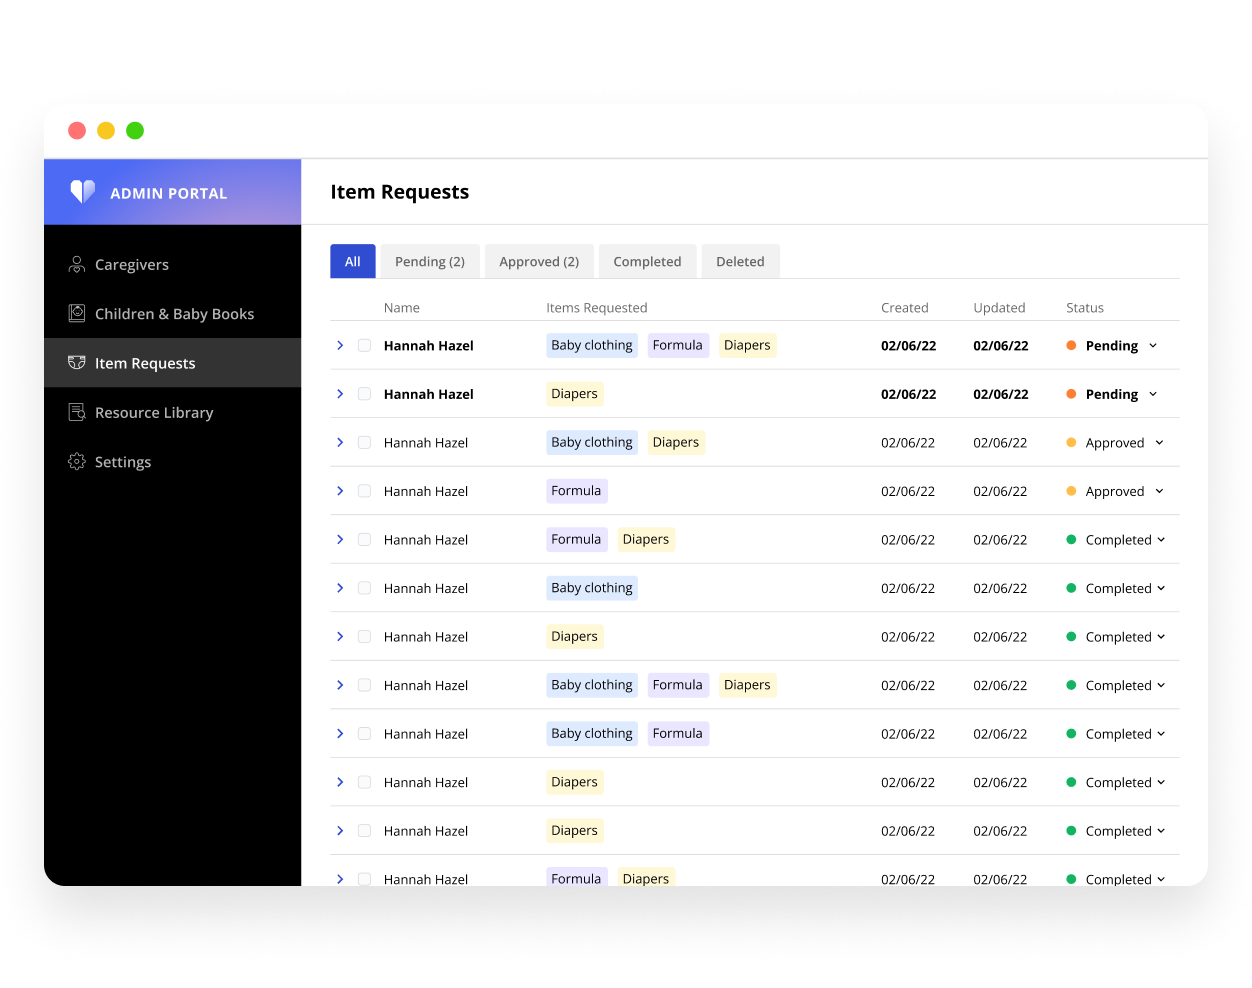
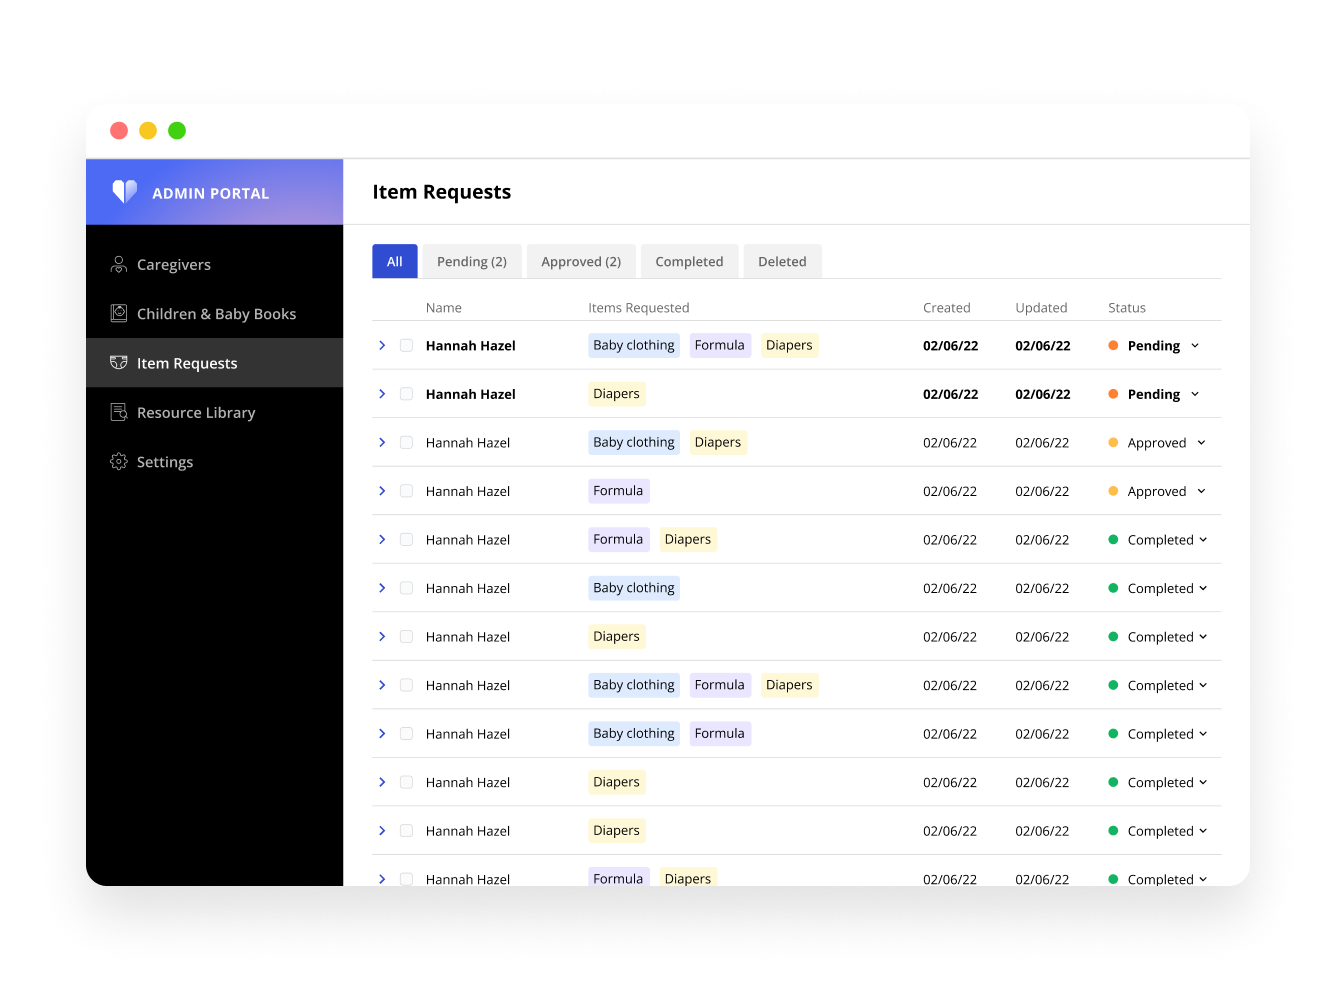
Index changes - not completed

diff --git a/index.html b/index.html
@@ -44,21 +44,18 @@
 
 <div id="index">
   <div class="content">
-
-  <!-- <img src="media/index/doodle.svg" id="doodle" alt="Icon"> -->
-
+    
   <div id="top-space"></div>
 
-  <div id="top-area" >
-
+  <div id="top-area">
     <div id="intro">
       <div class="move-down-wrapper"><h1>Hello, I'm Joyce –</h1></div>
       <div class="move-down-wrapper"><h2>Designer, strategist, & storyteller.</h2></div>
       <div class="xxs-space"></div>
       <div class="move-down-wrapper">
         <div class="p-container">
-          <p><span class="">UX Designer @</span> Expedia Group.</p>
-          <p><span class="">Previously designing @</span> Roblox, U.S. Bank, and Lacework.</p>
+          <p>I'm a product designer transforming complex problems into scalable and approachable solutions.</p>
+          <p>📍 Based in Austin, TX.</p>
         </div>
       </div>
     </div>
@@ -66,25 +63,43 @@
     <div id="image-container">
       <img src="media/index/joyce.svg" alt="Doodle of Joyce">
     </div>
-
   </div>
 
 
-  <div class="m-space"></div>
+  <div class="large-section-space"></div>
 
-  <!-- <p style="text-align: center;margin-bottom: 6px;" class="tag">See my recent work!</p> -->
-  <div id="down-arrow-wrapper"><span id="down-arrow" class="bounce">↓</span></div>
 
-  <div class="m-space"></div>
+  <!-- <div id="down-arrow-wrapper"><span id="down-arrow" class="bounce">↓</span></div> -->
+  <div class="anchor" id="status-anchor"></div>
+  <div id="status-wrapper">
+    <div class="tag" data-aos="fade-up" data-aos-anchor="#status-anchor" data-aos-offset="175">Me facts</div>
+    <div id="status">
+      <div data-aos="fade-up" data-aos-anchor="#status-anchor" data-aos-offset="200">
+        <h2>Currently</h2>
+        <p>Crafting traveler experiences at </p>
+        <p><span class="external-link-wrapper"><a href="https://expediagroup.com/" target="_blank">Expedia Group</a> <img class="external-link-arrow" src="media/up-right-arrow.svg"></span></p>
+      </div>
 
-      <!-- Animation on scroll -->
-      <!-- <div class="anchor" id="featured-work-anchor"></div>
-      <div data-aos="fade-up" 
-        data-aos-anchor="#featured-work-anchor"
-        data-aos-offset="250">
-        <h2 id="featured-work-heading">Featured work</h2>
-        <div class="m-space"></div>
-      </div> -->
+      <div data-aos="fade-up" data-aos-anchor="#status-anchor" data-aos-offset="250">
+        <h2>Previously</h2>
+        <p>Designing and researching at </p>
+        <p>
+          <span class="external-link-wrapper"><a href="https://create.roblox.com/" target="_blank">Roblox</a> <img class="external-link-arrow" src="media/up-right-arrow.svg"></span>&nbsp;
+          <span class="external-link-wrapper"><a href="https://www.elavon.com/about-elavon.html" target="_blank">U.S. Bank</a> <img class="external-link-arrow" src="media/up-right-arrow.svg"></span>&nbsp;
+          <span class="external-link-wrapper"><a href="https://www.lacework.com/" target="_blank">Lacework</a> <img class="external-link-arrow" src="media/up-right-arrow.svg"></span>&nbsp;
+        </p>
+      </div>
+
+      <div data-aos="fade-up" data-aos-anchor="#status-anchor" data-aos-offset="300">
+        <h2>Let's chat!</h2>
+        <p>Feel free to reach out at </p>
+        <p><span class="external-link-wrapper"><a href="mailto:joyceshen0@gmail.com">joyceshen0@gmail.com</a> <img class="external-link-arrow" src="media/up-right-arrow.svg"></span></p>
+      </div>
+    </div>
+  </div>
+
+
+  <div class="large-section-space"></div>
 
 
   <div class="projects-container">
@@ -94,14 +109,14 @@
     <div data-aos="fade-up" 
       data-aos-anchor="#roblox-anchor"
       data-aos-offset="250">
+      <!-- Content -->
       <a class="project project-border-outline" href="roblox.html">
-        <div class="tag">01. Discovery & Vision</div>
-        <h3>Collaboration in Roblox Studio</h3>
-        <!-- <img src="media/index/arrow.svg" class="heading-arrow"> -->
+        <div class="tag">Featured: Discovery & Vision</div>
+        <h2>Collaboration in Roblox Studio</h2>
         <p class="description">Reenvisioning the file collaboration experience for 8+ million game developers.</p>
         <div class="project-image-wrapper" id="roblox">
-          <div class="hover-overlay low-opacity"></div>
-          <img class="img-fill" src="media/index/roblox.png" alt="Roblox internship cover photo">
+          <div class="hover-overlay"></div>
+          <img class="img-fill-height" src="media/index/roblox.png" alt="Roblox internship cover photo">
         </div>
       </a>
       <!-- End of content -->
@@ -118,12 +133,12 @@
       data-aos-offset="250">
       <!-- Content -->
       <a class="project project-border-outline" href="lacework.html">
-        <div class="tag">02. B2B Product Design</div>
-        <h3>Report management in Lacework</h3>
+        <div class="tag">Featured: B2B Products</div>
+        <h2>Report management in Lacework</h2>
         <p class="description">Helping cloud security leaders generate and deliver reports across organizations.</p>
         <div class="project-image-wrapper" id="lacework">
-          <!-- <div class="hover-overlay high-opacity"></div> -->
-          <img class="img-fill" src="media/index/lacework.png" alt="Lacework internship cover photo">
+          <div class="hover-overlay"></div>
+          <img class="img-fill-width" src="media/index/lacework.png" alt="Lacework internship cover photo">
         </div>
       </a>
       <!-- End of content -->
@@ -140,11 +155,11 @@
       data-aos-offset="250">
       <!-- Content -->
       <a class="project project-border-outline" href="mbb.html">
-        <div class="tag">03. Internal & External Product Design</div>
-        <h3>Motherhood Beyond Bars</h3>
+        <div class="tag">Featured: Internal Tools</div>
+        <h2>Motherhood Beyond Bars</h2>
         <p class="description">Building tools for a nonprofit to support incarcerated mothers, their children, and caretakers.</p>
         <div class="project-image-wrapper" id="mbb">
-          <!-- <div class="hover-overlay"></div> -->
+          <div class="hover-overlay"></div>
           <img class="img-contain" src="media/index/mbb.png" alt="Motherhood Beyond Bars cover photo">
         </div>
       </a>
@@ -162,11 +177,11 @@
       data-aos-offset="250">
       <!-- Content -->
       <a class="project project-border-outline" href="moodfood.html">
-        <div class="tag">04. Design Challenge</div>
-        <h3>MoodFood</h3>
+        <div class="tag">Featured: Design Challenge</div>
+        <h2>MoodFood</h2>
         <p class="description">A creative challenge for a mood-based reading app.</p>
         <div class="project-image-wrapper" id="moodfood">
-          <!-- <div class="hover-overlay"></div> -->
+          <div class="hover-overlay"></div>
           <img class="img-contain" src="media/index/moodfood.png" alt="MoodFood cover photo">
         </div>
       </a>
@@ -187,8 +202,8 @@
   <div class="contact-wrapper">
     <p>Let's get in touch!</p>
     <div class="links">
-      <span>joyceshen0@gmail.com</span>
-      <a href="https://www.linkedin.com/in/jjjjjssss/" target="_blank">LinkedIn</a>
+      <span class="external-link-wrapper"><a href="mailto:joyceshen0@gmail.com">joyceshen0@gmail.com</a> <img class="external-link-arrow" src="media/up-right-arrow.svg"></span>
+      <span class="external-link-wrapper"><a href="https://www.linkedin.com/in/jjjjjssss/" target="_blank">LinkedIn</a> <img class="external-link-arrow" src="media/up-right-arrow.svg"></span>
     </div>
   </div>
   <div class="s-space"></div>

diff --git a/stylesheets/styles_index.css b/stylesheets/styles_index.css
@@ -22,6 +22,7 @@
   }
 }
 
+
 #index #top-area {
   width: 100%;
   display: flex;
@@ -82,9 +83,22 @@
   }
 }
 
+#index .large-section-space {
+  margin-top: 288px;
+}
+@media only screen and (min-height: 1080px) {
+  #index .large-section-space {
+    margin-top: 180px;
+  }
+}
+@media only screen and (max-width: 768px) {
+  #index .large-section-space {
+    margin-top: 144px;
+  }
+}
 
 
-#index #down-arrow-wrapper {
+/* #index #down-arrow-wrapper {
   width: 100%;
   text-align: center;
   animation: fadeIn 0.5s ease forwards;
@@ -108,10 +122,51 @@
   40% {
     transform: translateY(-.5em);
   }
+} */
+
+
+#index #status-wrapper {
+  /* On long screens, prevent content from coming in too quickly before the top area animation has finished */
+  opacity: 0;
+  animation: fadeIn 1s ease forwards 0.5s;
+}
+#index #status {
+  display: flex;
+  gap: 36px 60px;
+  flex-wrap: wrap;
+}
+#index #status > * {
+  flex: 1 1 225px;
+}
+#index #status h2 {
+  font-weight: var(--heading-semibold-font-weight);
+  font-size: var(--heading-1-font-size);
+  margin-bottom: 18px;
+}
+#index #status p {
+  margin: 0;
+  line-height: calc(var(--line-height) + 6px);
+}
+#index #status .no-break {
+  white-space: nowrap;
+}
+#index #status a {
+  color: inherit;
+}
+#index #status .gray-text {
+  color: var(--light-secondary-text-color);
+}
+#index #status .semibold-text {
+  font-weight: 600;
+}
+@media only screen and (max-width: 1048px) {
+  #index #status h2 {
+    font-size: var(--heading-2-font-size);
+  }
 }
 
-
 #index .projects-container {
+  /* On long screens, prevent content from coming in too quickly before the top area animation has finished */
   opacity: 0;
   animation: fadeIn 1s ease forwards 0.5s;
 }
@@ -123,7 +178,7 @@
 }
 #index .project-border-outline {
   outline: 1px solid transparent;
-  outline-offset: 30px;
+  outline-offset: 36px;
   border-radius: 0.001px;
   transition: 0.2s ease-in-out;
 }
@@ -134,7 +189,7 @@
 #index .project .tag {
   margin-bottom: 36px;
 }
-#index .project h3 {
+#index .project h2 {
   font-size: var(--heading-1-font-size);
   font-weight: var(--heading-semibold-font-weight);
   margin: 0 0 0px 0;
@@ -152,9 +207,6 @@
 }
 #index .project .description {
   margin: 18px 0 42px 0;
-}
-#index #intro .p-container p{
-  margin: 6px 0 0 0;
 }
 
 
@@ -176,8 +228,11 @@
   max-width: 100%;
   max-height: 100%;
 }
-#index .project-image-wrapper .img-fill {
+#index .project-image-wrapper .img-fill-width {
   max-width: 100%;
+}
+#index .project-image-wrapper .img-fill-height {
+  max-height: 100%;
 }
 /* Web only */
 @media only screen and (min-width: 768.001px) {
@@ -185,8 +240,11 @@
     max-width: 103%;
     max-height: 103%;
   }
-  #index .project:hover .project-image-wrapper .img-fill {
+  #index .project:hover .project-image-wrapper .img-fill-width {
     max-width: 103%;
+  }
+  #index .project:hover .project-image-wrapper .img-fill-height {
+    max-height: 103%;
   }
 }
 /* Mobile only */
@@ -200,12 +258,13 @@
     transform: translate(-50%, 0);
     max-width: 100%;
     max-height: 100%;
+    margin-bottom: -4px; /* Hard code fix for a bug */
   }
 }
 #index #roblox { background: #2C3237; }
-#index #mbb { background: linear-gradient(0deg, rgba(255, 255, 255, 0.20) 0%, rgba(255, 255, 255, 0.20) 100%), linear-gradient(153deg, #4D6BF5 11.64%, #A08FE0 90.26%); }
+#index #mbb { background: linear-gradient(0deg, rgba(255, 255, 255, 0.20) 0%, rgba(255, 255, 255, 0.20) 100%), linear-gradient(153deg, #234AFF 11.64%, #AE8FE0 90.26%); }
 #index #moodfood { background: linear-gradient(330.3deg, #6B85DF 7.07%, #1231D5 87.66%); }
-#index #lacework { background: linear-gradient(330deg, #E2F4FF 7.07%, #86C2FF 87.66%); }
+#index #lacework { background: linear-gradient(330deg, #E2F4FF 7.07%, #58ACFF 87.66%); }
 
 #index .project .hover-overlay {
   background-color: white;
@@ -218,5 +277,8 @@
   top: 0;
 }
 #index .project:hover .hover-overlay {
-  opacity: 0.075;
+  opacity: 0.15;
+}
+#index .project:hover #roblox .hover-overlay {
+  opacity: 0.05;
 }

diff --git a/stylesheets/styles_main.css b/stylesheets/styles_main.css
@@ -11,8 +11,8 @@
   --accent-color-darkened: #ffbb0e;
   --highlight-color: #ffd87462;
   --primary-text-color: #1a1a1a;
-  --secondary-text-color: #505058;
-  --light-secondary-text-color: #81818c;
+  --secondary-text-color: #64646c;
+  --light-secondary-text-color: #7c7c85;
   --background-color: #FFFFFF;
   --darker-background-color: #F2F2F2;
   --light-stroke-color: #dadada;
@@ -147,7 +147,8 @@ nav li:hover a {
 
 /* Inactive nav link is light gray */
 nav .inactive {
-  color: var(--secondary-text-color);
+  color: var(--primary-text-color);
+  font-weight: normal;
   text-decoration: none;
 }
 
@@ -157,13 +158,6 @@ nav .selected {
   font-weight: 600;
   text-decoration: none;
 }
-
-a {
-  color: var(--secondary-text-color);
-  text-underline-offset: 3px;
-}
-
-
 
 
 
@@ -272,9 +266,22 @@ hr {
   text-transform: uppercase;
   letter-spacing: 0.4px;
 } */
+
+a {
+  color: var(--secondary-text-color);
+  text-underline-offset: 3px;
+}
+.external-link-wrapper {
+  white-space: nowrap;
+}
+.external-link-arrow {
+  vertical-align: text-top;
+}
+
+
 .tag  {
   font-family: var(--mono-font);
-  color: var(--light-secondary-text-color);
+  color: var(--secondary-text-color);
   font-weight: 300;
   font-size: 0.9375em;
   background-color: #eeeef7;

diff --git a/about.html b/about.html
@@ -53,10 +53,10 @@
 					<div class="xxs-space"></div>
 					<p>I'm Joyce, a designer at Expedia Group and a recently graduate from Georgia Tech with a computer science degree. In the past, I've worked on projects that address social issues, simplify complex processes, and empower users. As I continue to grow, I hope to connect with people motivated to create work that drives positive social impact.</p>
 					<div class="xs-space"></div>
-					<h2>In my free time –</h2>
+					<h2>In my free time</h2>
 					<p>I <a href="https://www.instagram.com/yarndening/" target="_blank">crochet bags and keychains</a>, rollerblade, work on my cooking skills, paint ceramics and canvases, search for the best variety of apple, and do the daily Wordle.</p>
 					<div class="xs-space"></div>
-					<h2>Let's get in touch –</h2>
+					<h2>Let's get in touch</h2>
 					<p>I'm always down to chat! Feel free to reach out to me at joyceshen0@gmail.com or through <a href="https://www.linkedin.com/in/jjjjjssss/" target="_blank">LinkedIn</a>. </p>
 				</div>
 			</div>
